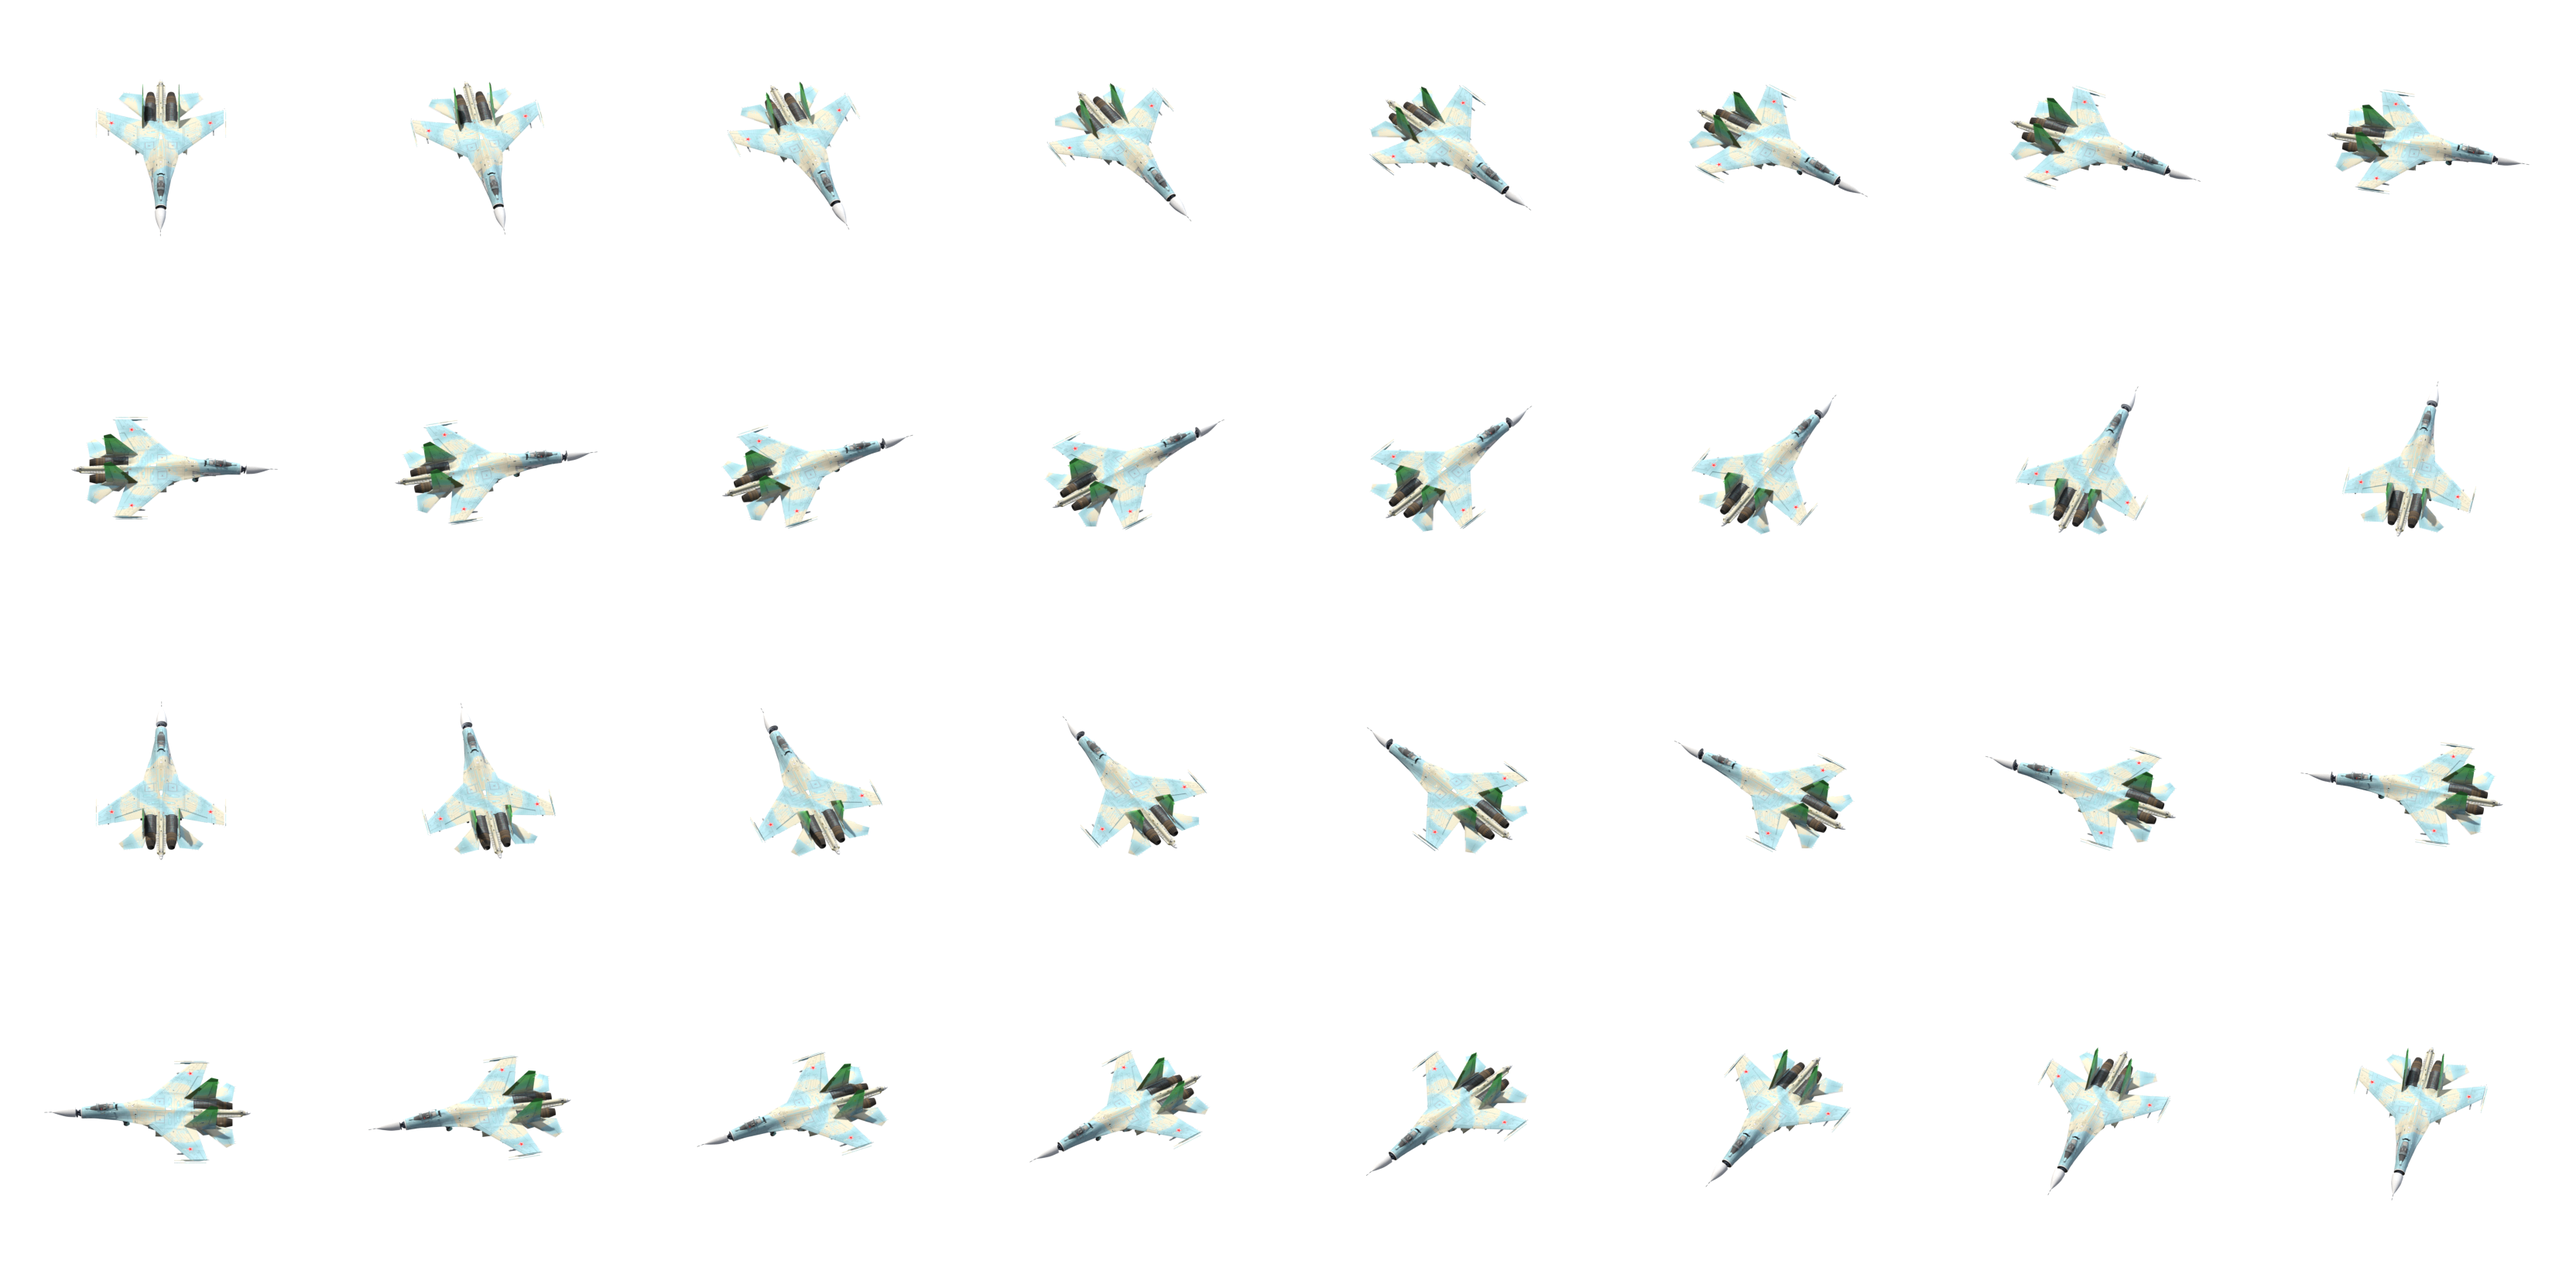
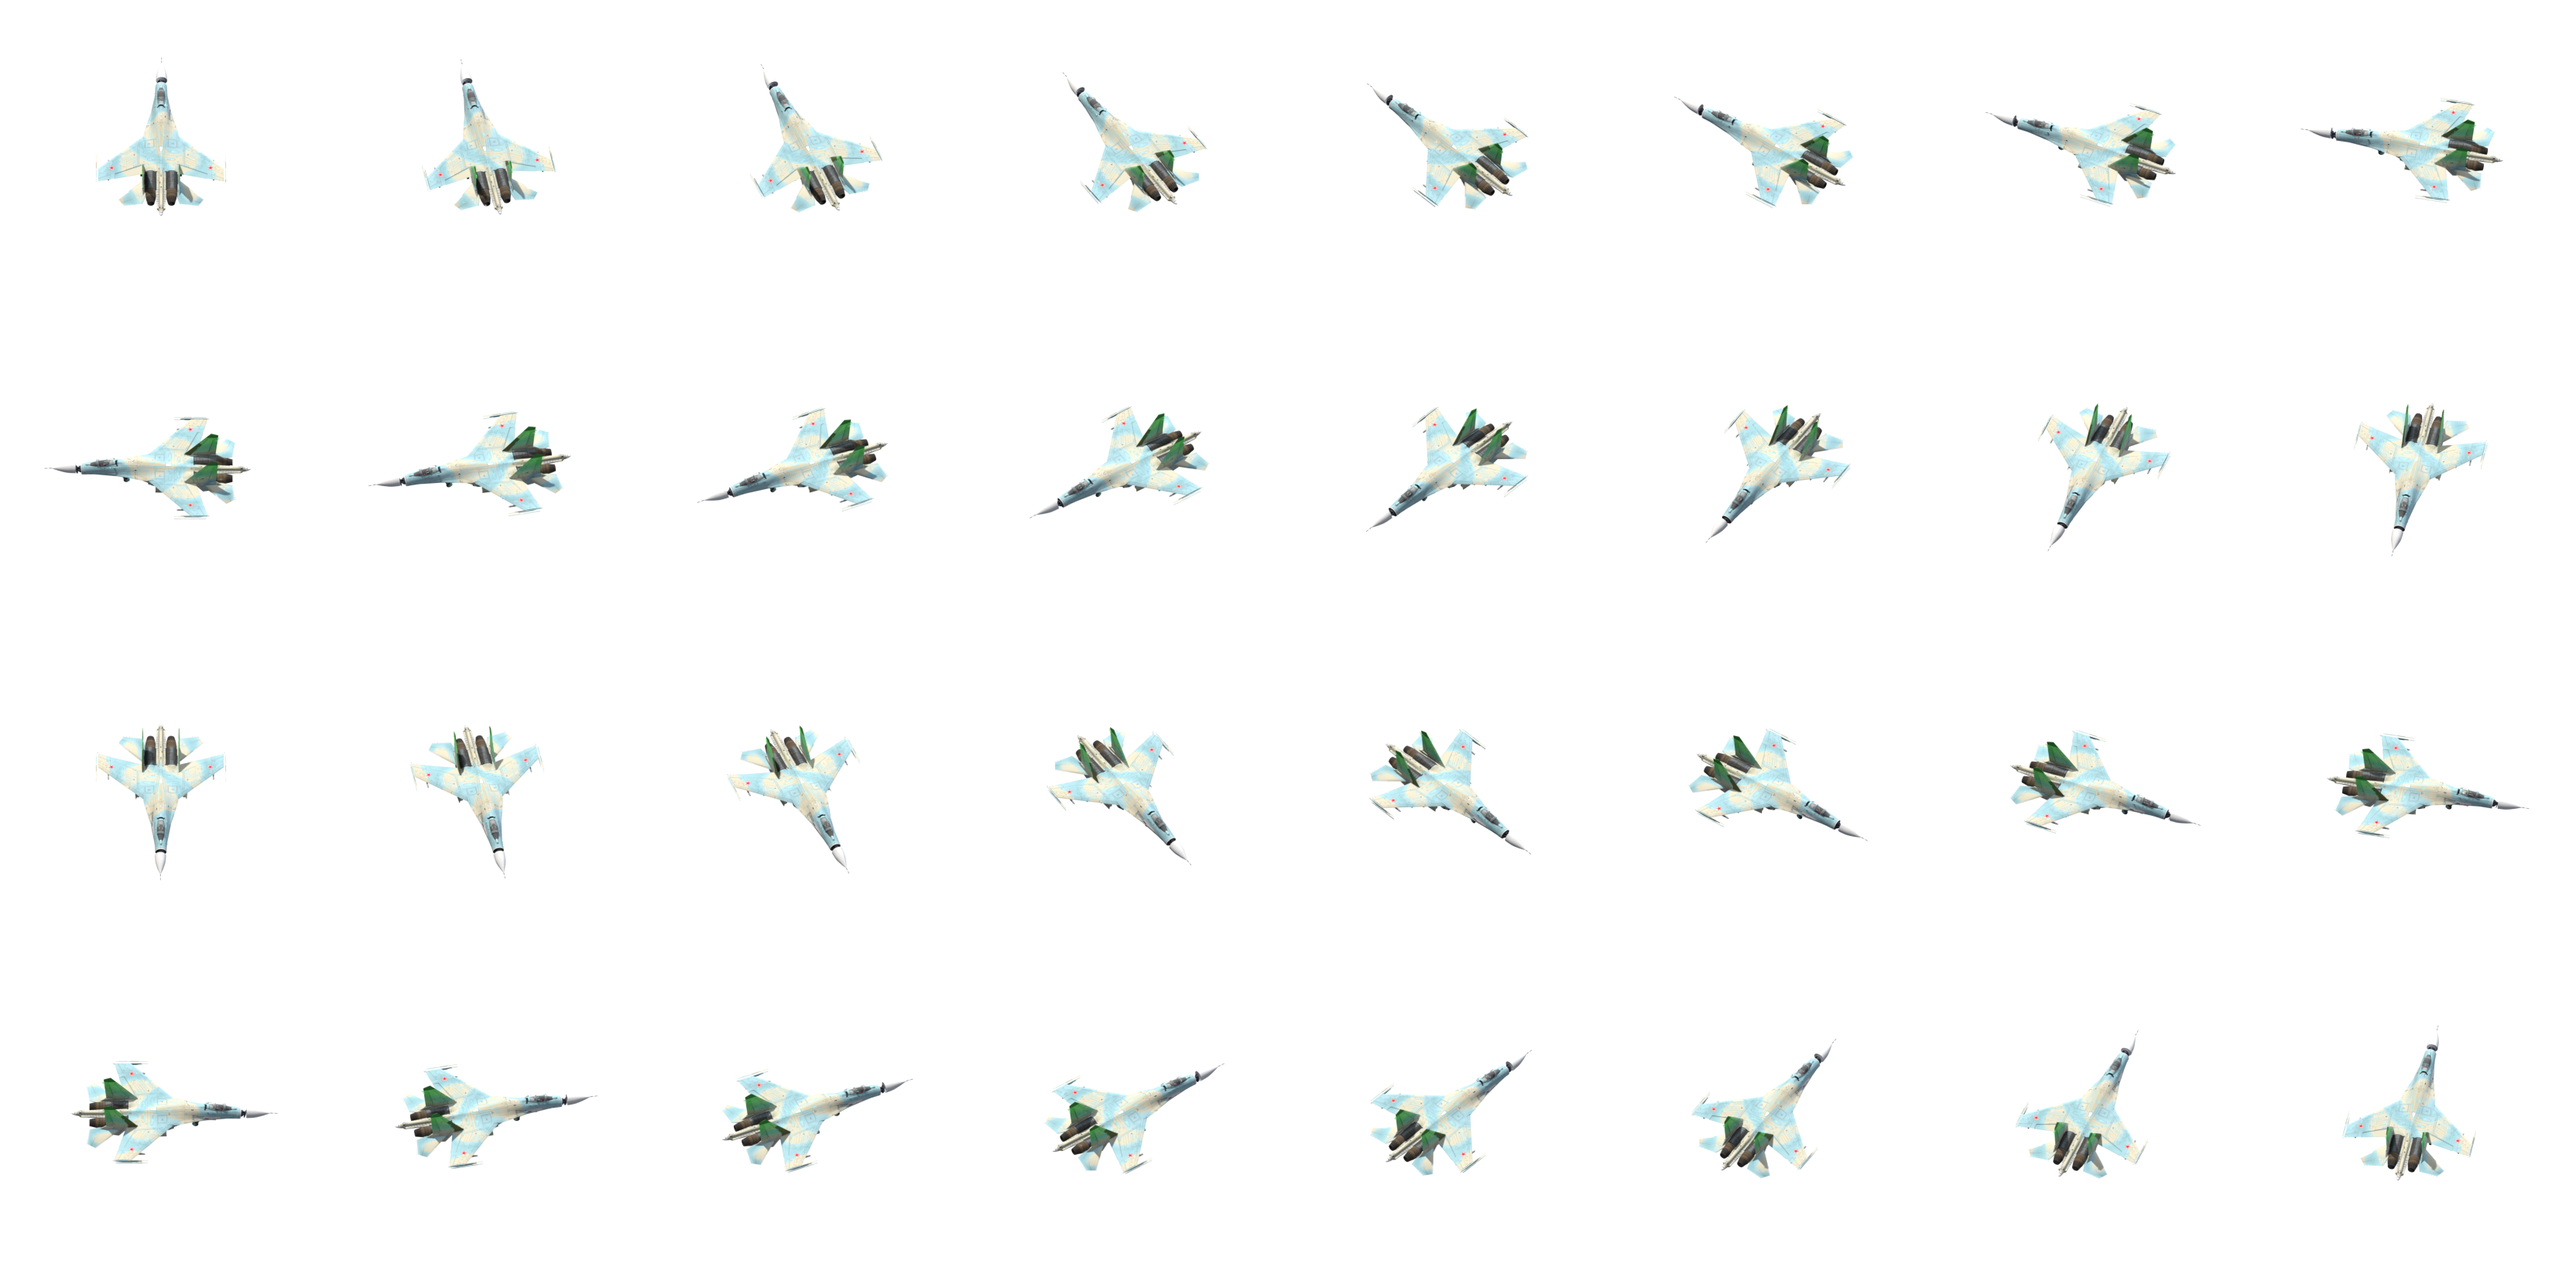
Sk-27 Flankard: import with yaw 180 so the nose leads, re-render and move weapon offsets
fix_su27_pose.py now detects which way the nose points; stores, wingtip R-73s, R-77s and gun offsets recomputed for the turned model.

diff --git a/artsrc/units/meshes/fix_su27_pose.py b/artsrc/units/meshes/fix_su27_pose.py
@@ -1,5 +1,5 @@
 """
-The Sk-27 Flankard's source model (Sketchfab Su-27P) is posed for maintenance: the radome is swung up and the
+The Sk-27 Flankard's source model (Sketchfab Su-27P; imported with yaw 180, its nose points to -y) is posed for maintenance: the radome is swung up and the
 canopy is open, and both sit in the team-colour box (green in the renders). This closes them in sk-27-flankard.blend:
 the radome is turned so its axis points forward and its base ring meets the front of the hull; the canopy and its
 glass are turned down about their rear hinge until they lie level on the fuselage. The team-colour mask is moved
@@ -45,53 +45,57 @@ nose = obj("nose_Material")
 canopy = obj("canopy_")
 glass = obj("glass_")
 
-# Front opening of the hull: its foremost vertices (smallest y)
+# Which way the nose points along y (+1 after the import's yaw 180, -1 in the raw model)
 hv = world_verts(hull)
-front = hv[hv[:, 1] < hv[:, 1].min() + 0.08]
+nv = world_verts(nose)
+f = 1.0 if nv[:, 1].mean() > hv[:, 1].mean() else -1.0
+
+# Front opening of the hull: its foremost vertices
+ext = hv[:, 1] * f
+front = hv[ext > ext.max() - 0.08]
 H = front.mean(axis=0)
 
-# Radome: a cone. Its tip is the vertex furthest from the hull front; its base ring is the widest end
-nv = world_verts(nose)
+# Radome: a cone; its base is the wider end. Turn its axis forward (a slight droop) and put the base on the hull
 c = nv.mean(axis=0)
 _, _, vt = np.linalg.svd(nv - c)
-axis = vt[0]
-proj = (nv - c) @ axis
-tip_end = 1 if abs(proj.max()) > abs(proj.min()) else -1
-# The base is the end whose cross-section is wider
+proj = (nv - c) @ vt[0]
 lo, hi = nv[proj < proj.min() + 0.08], nv[proj > proj.max() - 0.08]
 spread = lambda p: np.linalg.norm(p - p.mean(axis=0), axis=1).mean()
 base, tipside = (lo, hi) if spread(lo) > spread(hi) else (hi, lo)
-B = base.mean(axis=0)
-T = tipside.mean(axis=0)
-print("radome base", B.round(2), "tip", T.round(2), "hull front", H.round(2))
-rot = rotation_between(T - B, (0, -1, -0.04))
-move = Matrix.Translation(Vector(H)) @ rot @ Matrix.Translation(-Vector(B))
-apply(nose, move)
+B, T = base.mean(axis=0), tipside.mean(axis=0)
+print("nose points", "+y" if f > 0 else "-y", "radome base", B.round(2), "tip", T.round(2), "hull front", H.round(2))
+rot = rotation_between(T - B, (0, f, -0.04))
+apply(nose, Matrix.Translation(Vector(H)) @ rot @ Matrix.Translation(-Vector(B)))
 
-# Canopy: hinged at its rear bottom; turn it down about the x axis until its long axis is level
+# Canopy: hinged at its rear bottom; of the two ways to turn it level, keep the one that lies lowest
 cv = np.vstack([world_verts(canopy), world_verts(glass)])
-rear = cv[cv[:, 1] > cv[:, 1].max() - 0.1]
+rear_ext = -cv[:, 1] * f
+rear = cv[rear_ext > rear_ext.max() - 0.1]
 P = rear[rear[:, 2].argmin()]
 cc = cv.mean(axis=0)
 _, _, vt = np.linalg.svd(cv - cc)
 long_axis = vt[0] if abs(vt[0][1]) > abs(vt[1][1]) else vt[1]
-angle = np.arctan2(long_axis[2], abs(long_axis[1])) * (1 if long_axis[1] < 0 else -1)
+angle = abs(np.arctan2(abs(long_axis[2]), abs(long_axis[1])))
+best = None
+for sign in (1, -1):
+	m = Matrix.Translation(Vector(P)) @ Matrix.Rotation(sign * angle, 4, "X") @ Matrix.Translation(-Vector(P))
+	top = max((m @ Vector(v))[2] for v in cv)
+	if best is None or top < best[0]:
+		best = (top, m)
 print("canopy hinge", P.round(2), "tilt deg", np.degrees(angle).round(1))
-hinge = Matrix.Translation(Vector(P)) @ Matrix.Rotation(angle, 4, "X") @ Matrix.Translation(-Vector(P))
 for o in (canopy, glass):
-	apply(o, hinge)
+	apply(o, best[1])
 
-# The team-colour mask (px_team, import_sketchfab.py) used JET_BOX "rear 30%, top 45%" as fractions of the bounds
-# from low y, but this model's nose points to -y, so the box sat on the cockpit and the raised radome/canopy. Redo it
-# on the real tail: the top 45% of the rearmost 30% (high y).
+# Team colour on the tail fins only: the top 45% of the rearmost 30% (never the radome or canopy)
 meshes = [o for o in bpy.data.objects if o.type == "MESH" and o.data.attributes.get("px_team")]
 allv = np.vstack([world_verts(o) for o in meshes])
-lo, hi = allv.min(axis=0), allv.max(axis=0)
-y0 = hi[1] - 0.3 * (hi[1] - lo[1])
-z0 = lo[2] + 0.55 * (hi[2] - lo[2])
+lo_b, hi_b = allv.min(axis=0), allv.max(axis=0)
+z0 = lo_b[2] + 0.55 * (hi_b[2] - lo_b[2])
+tail_cut = (hi_b[1] - 0.3 * (hi_b[1] - lo_b[1])) if f < 0 else (lo_b[1] + 0.3 * (hi_b[1] - lo_b[1]))
 for o in meshes:
 	v = world_verts(o)
-	inside = ((v[:, 1] >= y0) & (v[:, 2] >= z0)).astype(float)
+	in_tail = (v[:, 1] >= tail_cut) if f < 0 else (v[:, 1] <= tail_cut)
+	inside = (in_tail & (v[:, 2] >= z0)).astype(float)
 	if o in (nose, canopy, glass):
 		inside[:] = 0
 	o.data.attributes["px_team"].data.foreach_set("value", inside.tolist())

diff --git a/artsrc/units/meshes/sketchfab_models.py b/artsrc/units/meshes/sketchfab_models.py
@@ -354,7 +354,7 @@ MODELS = {
     "jet.mig23": {"name": "Mik-23 Flintlock (MiG-23)", "src": "inbox2/jet.mig23__mig_23_mld/scene.gltf", "kind": "air", "out": "mik-23-flintlock", "frame": 160, "yaw": 180, "length": 7.2, "team": {"box": JET_BOX}},
     "jet.mig25": {"name": "Mik-25 Foxbane (MiG-25)", "src": "inbox2/jet.mig25__mig25/scene.gltf", "kind": "air", "out": "mik-25-foxbane", "frame": 160, "yaw": -135, "length": 7.9, "team": {"box": JET_BOX}, "snap": 'length'},
     "jet.su25": {"name": "Sk-25 Rook (Su-25)", "src": "inbox2/jet.su25__pbr__sukhoi_su_25/scene.gltf", "kind": "air", "out": "sk-25-rook", "frame": 160, "yaw": 0, "length": 6.9, "team": {"box": JET_BOX}},
-    "jet.su27": {"name": "Sk-27 Flankard (Su-27)", "src": "inbox2/jet.su27__sukhoi_su_27p_flanker_b/scene.gltf", "kind": "air", "out": "sk-27-flankard", "frame": 160, "yaw": 0, "length": 8.5, "team": {"box": JET_BOX}},
+    "jet.su27": {"name": "Sk-27 Flankard (Su-27)", "src": "inbox2/jet.su27__sukhoi_su_27p_flanker_b/scene.gltf", "kind": "air", "out": "sk-27-flankard", "frame": 160, "yaw": 180, "length": 8.5, "team": {"box": JET_BOX}},
     "jet.su47": {"name": "Sk-47 Berkov (Su-47)", "src": "inbox2/jet.su47__su_47_berkut/scene.gltf", "kind": "air", "out": "sk-47-berkov", "frame": 160, "yaw": 180, "length": 8.6, "team": {"box": JET_BOX}},
     # Fatman bomber (USA only, rules/fatman.yaml): "Northrop YB-35 (low poly)" by Götz von Berlichingen, CC-BY-4.0
     "jet.yb35": {"name": "YB-35 Fatman bomber", "src": "inbox4/yb35/scene.gltf", "kind": "air", "out": "yb-35-flying-wing",

diff --git a/artsrc/jets/loadout_table.py b/artsrc/jets/loadout_table.py
@@ -71,7 +71,7 @@ LOADOUTS = {
     ]},
     # Su-27: wingtip R-73s plus R-27s added under the wings
     "jet.su27": {"real_length": 21.9, "gun": "GSh30", "stations": [
-        {"weapon": "JetAAM.Short", "model": (2.99, 1.21, 1.11, 0.15, 0.6, 0.2)},
+        {"weapon": "JetAAM.Short", "model": (2.99, -1.21, 1.11, 0.15, 0.6, 0.2)},  # model turned (yaw 180)
         {"weapon": "JetAAM.Medium", "add": "r77", "at": (1.9, "lead")},
         {"weapon": "JetAAM.Medium", "add": "r77", "at": (1.3, "lead")},
     ]},
